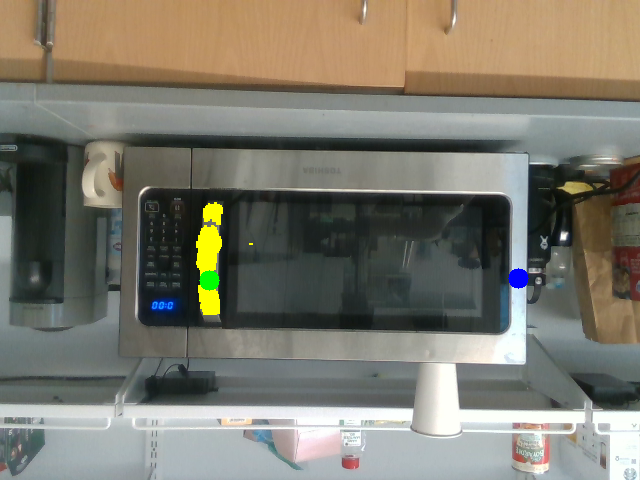
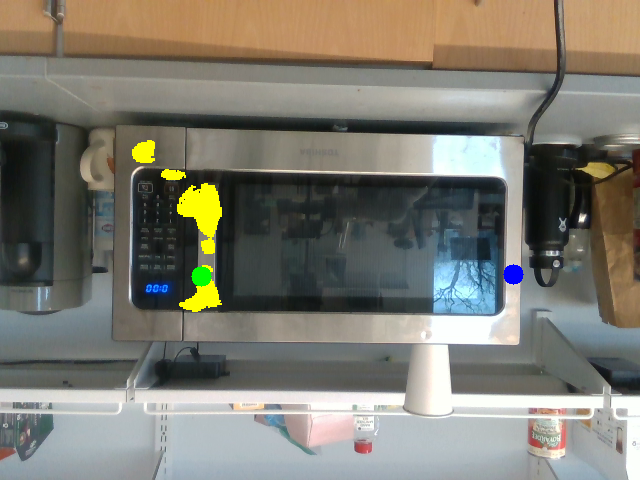
shut doors

diff --git a/src/feeding_deployment/interfaces/perception_interface.py b/src/feeding_deployment/interfaces/perception_interface.py
@@ -383,19 +383,24 @@ class PerceptionInterface:
             self._handle_perception.turn_off()
 
             # hack add 0.01 to y as the perception is slightly off
-            grasp_pose = Pose(
-                position=(handle_pose_msg.position.x - 0.04, handle_pose_msg.position.y + 0.02, handle_pose_msg.position.z),
+
+            handle_pose = Pose(
+                position=(handle_pose_msg.position.x, handle_pose_msg.position.y, handle_pose_msg.position.z),
                 orientation=(handle_pose_msg.orientation.x, handle_pose_msg.orientation.y, handle_pose_msg.orientation.z, handle_pose_msg.orientation.w)
             )
 
-            hinge_pose = Pose(
-                position=(hinge_pose_msg.position.x, hinge_pose_msg.position.y + 0.04, hinge_pose_msg.position.z),
-                orientation=(hinge_pose_msg.orientation.x, hinge_pose_msg.orientation.y, hinge_pose_msg.orientation.z, hinge_pose_msg.orientation.w)
-            )
+            handle_transform = self.pose_to_matrix(handle_pose)
+            offset = np.eye(4)
+            offset[:3, 3] = np.array([0.0, 0.0, -0.04]) # x axis is left, y axis is up, z axis is forward. 
+            grasp_pose = self.matrix_to_pose(handle_transform @ offset)
 
-            pre_grasp_pose = Pose(
-                position=(grasp_pose.position[0] - 0.12, grasp_pose.position[1], grasp_pose.position[2]),
-                orientation=(grasp_pose.orientation[0], grasp_pose.orientation[1], grasp_pose.orientation[2], grasp_pose.orientation[3])
+            pre_grasp_offset = np.eye(4)
+            pre_grasp_offset[:3, 3] = np.array([0.0, 0.0, -0.12])
+            pre_grasp_pose = self.matrix_to_pose(handle_transform @ pre_grasp_offset)
+
+            hinge_pose = Pose(
+                position=(hinge_pose_msg.position.x, hinge_pose_msg.position.y, hinge_pose_msg.position.z),
+                orientation=(hinge_pose_msg.orientation.x, hinge_pose_msg.orientation.y, hinge_pose_msg.orientation.z, hinge_pose_msg.orientation.w)
             )
 
             opening_waypoints = self._generate_door_arc_waypoints(
@@ -415,7 +420,7 @@ class PerceptionInterface:
             post_release_pose = self.matrix_to_pose(post_release_pose_mat)
 
             # rotate the sixth-to-last (assuming thickness is 35cm) opening waypoint by 180 degrees so that the gripper can push the door open instead of pulling it
-            push_pose = copy.deepcopy(opening_waypoints[-7])
+            push_pose = copy.deepcopy(opening_waypoints[-6])
             push_pose_mat = self.pose_to_matrix(push_pose)
             if handle_type == "white fridge door":
                 push_pose_mat[:3, :3] = push_pose_mat[:3, :3] @ R.from_euler("y", -np.pi/2).as_matrix()
@@ -423,19 +428,62 @@ class PerceptionInterface:
                 push_pose_mat[:3, :3] = push_pose_mat[:3, :3] @ R.from_euler("y", np.pi/2).as_matrix()
             push_pose = self.matrix_to_pose(push_pose_mat)
             
-            push_waypoints = self._generate_door_arc_waypoints(
+            second_waypoints = self._generate_door_arc_waypoints(
                 start_pose=push_pose,
                 hinge_position=hinge_pose.position,
-                arc_length_m=0.50,
+                arc_length_m=0.5,
                 waypoint_spacing_m=0.05,
                 direction=1 if handle_type == "white fridge door" else -1, # microwave is left hinged
                 rotate_orientation=True,
             )
+            print("Number of second waypoints: ", len(second_waypoints))
+            push_waypoints = second_waypoints[:-6]
+            len_push_waypoints = len(push_waypoints)
+            print("Number of push waypoints: ", len_push_waypoints)
 
             pre_push_offset = np.eye(4)
             pre_push_offset[:3, 3] = np.array([0, 0.15, 0])
             pre_push_pose_mat = self.pose_to_matrix(push_pose) @ pre_push_offset
             pre_push_pose = self.matrix_to_pose(pre_push_pose_mat)
+
+            closing_waypoints = copy.deepcopy(second_waypoints)
+            print("Number of closing waypoints: ", len(closing_waypoints))
+            closing_waypoints.reverse()
+
+            closing_waypoint = closing_waypoints[0]
+
+            last_push = push_waypoints[-1]
+            last_push = self.pose_to_matrix(last_push)
+            offset = np.eye(4)
+            offset[:3, 3] = np.array([0, 0.15, 0])
+            last_push = last_push @ offset
+            last_push = self.matrix_to_pose(last_push)
+
+            above_closing_waypoint = closing_waypoint
+            above_closing_waypoint_mat = self.pose_to_matrix(above_closing_waypoint)
+            offset = np.eye(4)
+            offset[:3, 3] = np.array([0, 0.15, 0])
+            above_closing_waypoint_mat = above_closing_waypoint_mat @ offset
+            above_closing_waypoint = self.matrix_to_pose(above_closing_waypoint_mat)
+
+            more_closing_waypoints = copy.deepcopy(opening_waypoints[:-2])
+            more_closing_waypoints.reverse()
+            more_closing_waypoints.append(copy.deepcopy(grasp_pose))
+
+            offset_closing_waypoints = []
+            offset = np.eye(4)
+            # offset[:3, 3] = np.array([0, 0.0, 0.0])
+            offset[:3, 3] = np.array([0, 0.0, -0.025])
+            for waypoint in more_closing_waypoints:
+                waypoint_mat = self.pose_to_matrix(waypoint)
+                offset_closing_waypoints.append(self.matrix_to_pose(waypoint_mat @ offset))
+
+            # beginning_closing_waypoint = offset_closing_waypoints[0]
+            # beginning_closing_waypoint_mat = self.pose_to_matrix(beginning_closing_waypoint)
+            # offset = np.eye(4)
+            # offset[:3, 3] = np.array([0, 0.0, -0.05])
+            # beginning_closing_waypoint_mat = beginning_closing_waypoint_mat @ offset
+            # beginning_closing_waypoint = self.matrix_to_pose(beginning_closing_waypoint_mat)
 
             handle_poses = {
                 "pre_grasp_pose": pre_grasp_pose,
@@ -445,6 +493,12 @@ class PerceptionInterface:
                 "pre_push_pose": pre_push_pose,
                 "push_pose": push_pose,
                 "push_waypoints": push_waypoints,
+                "before_above_closing_waypoint": last_push,
+                "above_closing_waypoint": above_closing_waypoint,
+                "closing_waypoint": closing_waypoint,
+                "closing_waypoints": closing_waypoints,
+                # "beginning_closing_waypoint": beginning_closing_waypoint,
+                "offset_closing_waypoints": offset_closing_waypoints,
             }
 
         self.last_handle_poses = handle_poses

diff --git a/src/feeding_deployment/actions/open_door.py b/src/feeding_deployment/actions/open_door.py
@@ -76,7 +76,8 @@ class OpenDoorHLA(HighLevelAction):
         print(f"Visualizing {len(poses)} handle opening poses in RViz ...")
         self.rviz_interface.visualize_poses(poses, frame_id="base_link", ns="handle_opening_poses")
 
-        self.move_to_joint_positions(self.sim.scene_description.home_pos)
+        # self.move_to_joint_positions(self.sim.scene_description.home_pos)
+        self.move_to_joint_positions(self.sim.scene_description.fridge_door_staging_pos)
 
         self.move_to_ee_pose(handle_opening_poses["pre_grasp_pose"])
         self.open_gripper()
@@ -110,10 +111,15 @@ class OpenDoorHLA(HighLevelAction):
         poses.append(handle_opening_poses["pre_push_pose"])
         poses.append(handle_opening_poses["push_pose"])
         poses.extend(handle_opening_poses["push_waypoints"])
+        poses.append(handle_opening_poses["before_above_closing_waypoint"])
+        poses.append(handle_opening_poses["above_closing_waypoint"])
+        poses.append(handle_opening_poses["closing_waypoint"])
+        poses.extend(handle_opening_poses["closing_waypoints"])
         print(f"Visualizing {len(poses)} handle opening poses in RViz ...")
         self.rviz_interface.visualize_poses(poses, frame_id="base_link", ns="handle_opening_poses")
 
-        self.move_to_joint_positions(self.sim.scene_description.home_pos)
+        # self.move_to_joint_positions(self.sim.scene_description.home_pos)
+        self.move_to_joint_positions(self.sim.scene_description.fridge_door_staging_pos)
 
         self.move_to_ee_pose(handle_opening_poses["pre_grasp_pose"])
         self.open_gripper()
@@ -129,3 +135,12 @@ class OpenDoorHLA(HighLevelAction):
         self.move_to_ee_pose(handle_opening_poses["pre_push_pose"])
         self.move_to_ee_pose(handle_opening_poses["push_pose"])
         self.move_to_ee_pose_trajectory(handle_opening_poses["push_waypoints"])
+
+        self.move_to_ee_pose(handle_opening_poses["before_above_closing_waypoint"])
+        self.move_to_ee_pose(handle_opening_poses["above_closing_waypoint"])
+        self.move_to_ee_pose(handle_opening_poses["closing_waypoint"])
+        self.move_to_ee_pose_trajectory(handle_opening_poses["closing_waypoints"])
+
+        self.close_gripper()
+        self.move_to_ee_pose(handle_opening_poses["offset_closing_waypoints"][0])
+        self.move_to_ee_pose_trajectory(handle_opening_poses["offset_closing_waypoints"])

diff --git a/src/feeding_deployment/perception/handle_perception/handle_perception.py b/src/feeding_deployment/perception/handle_perception/handle_perception.py
@@ -352,7 +352,7 @@ class HandlePerception(TFInterface):
             camera_to_handle[:3, 3] = handle_centroid_3d
             camera_to_handle[3, 3] = 1 
             base_to_handle = np.dot(base_to_camera, camera_to_handle)
-            base_to_handle[:3, :3] = Rotation.from_quat([0.500, 0.500, 0.500, 0.500]).as_matrix()
+            base_to_handle[:3, :3] = Rotation.from_quat([0.0, 0.7071, 0.7071, 0.0]).as_matrix()
             self.updateTF("base_link", "handle", base_to_handle)
             self.update_handle_pose(base_to_handle)
 
@@ -360,7 +360,7 @@ class HandlePerception(TFInterface):
             camera_to_hinge[:3, 3] = hinge_3d
             camera_to_hinge[3, 3] = 1
             base_to_hinge = np.dot(base_to_camera, camera_to_hinge)
-            base_to_hinge[:3, :3] = Rotation.from_quat([0.500, 0.500, 0.500, 0.500]).as_matrix()
+            base_to_hinge[:3, :3] = Rotation.from_quat([0.0, 0.7071, 0.7071, 0.0]).as_matrix()
             self.updateTF("base_link", "hinge", base_to_hinge)
             self.update_hinge_pose(base_to_hinge)
 

diff --git a/src/feeding_deployment/control/robot_controller/preset_actions/retract.py b/src/feeding_deployment/control/robot_controller/preset_actions/retract.py
@@ -44,5 +44,5 @@ if __name__ == "__main__":
     # This will now use the single, shared instance of ArmInterface
     arm_interface = manager.ArmInterface()
 
-    retract_pos = [0.0, -0.34903602299465675, -3.141591055693139, -2.0, 0.0, -0.872688061814757, 1.57075917569769]
+    retract_pos = [-1.57, -0.34903602299465675, -3.141591055693139, -2.0, 0.0, -0.872688061814757, 1.57075917569769]
     arm_interface.set_joint_position(retract_pos)

diff --git a/src/feeding_deployment/simulation/scene_description.py b/src/feeding_deployment/simulation/scene_description.py
@@ -74,6 +74,7 @@ class SceneDescription:
     retract_utensil_forward_pos: JointPositions
 
     # Fridge
+    fridge_door_staging_pos: JointPositions
     fridge_door_gaze_pos: JointPositions
     fridge_door_intermediate_restract_pos: JointPositions
 
